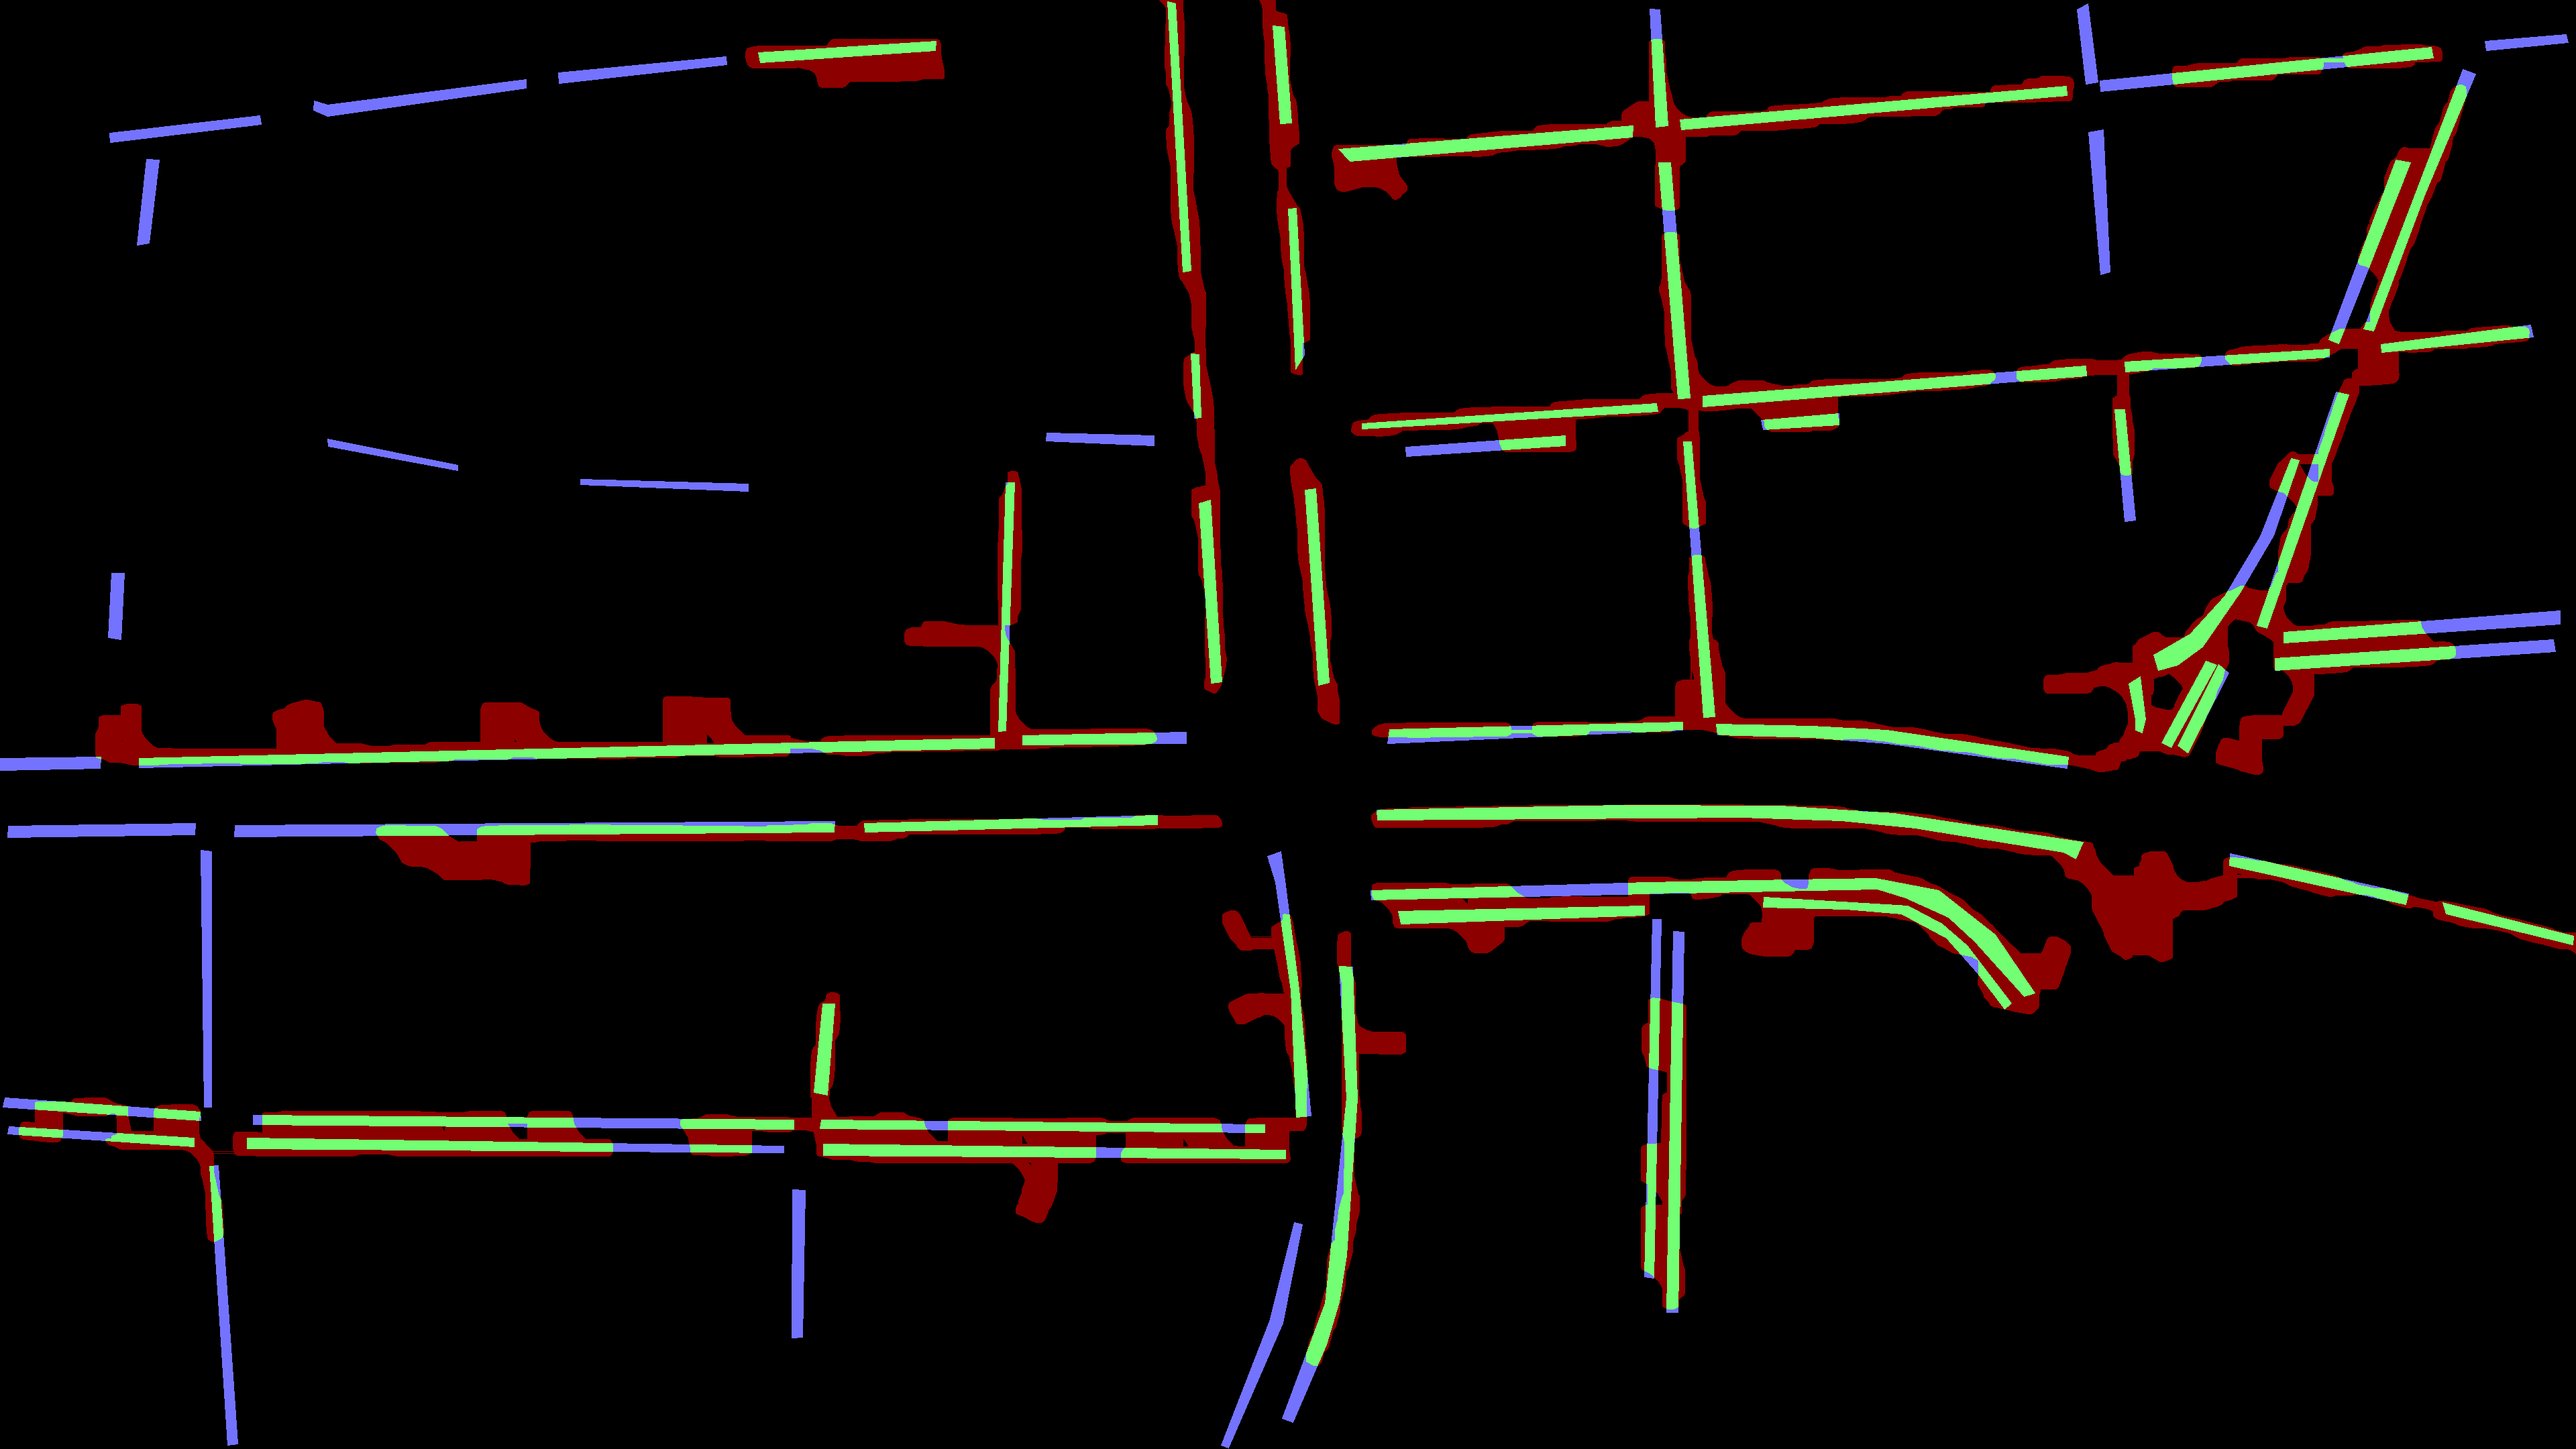
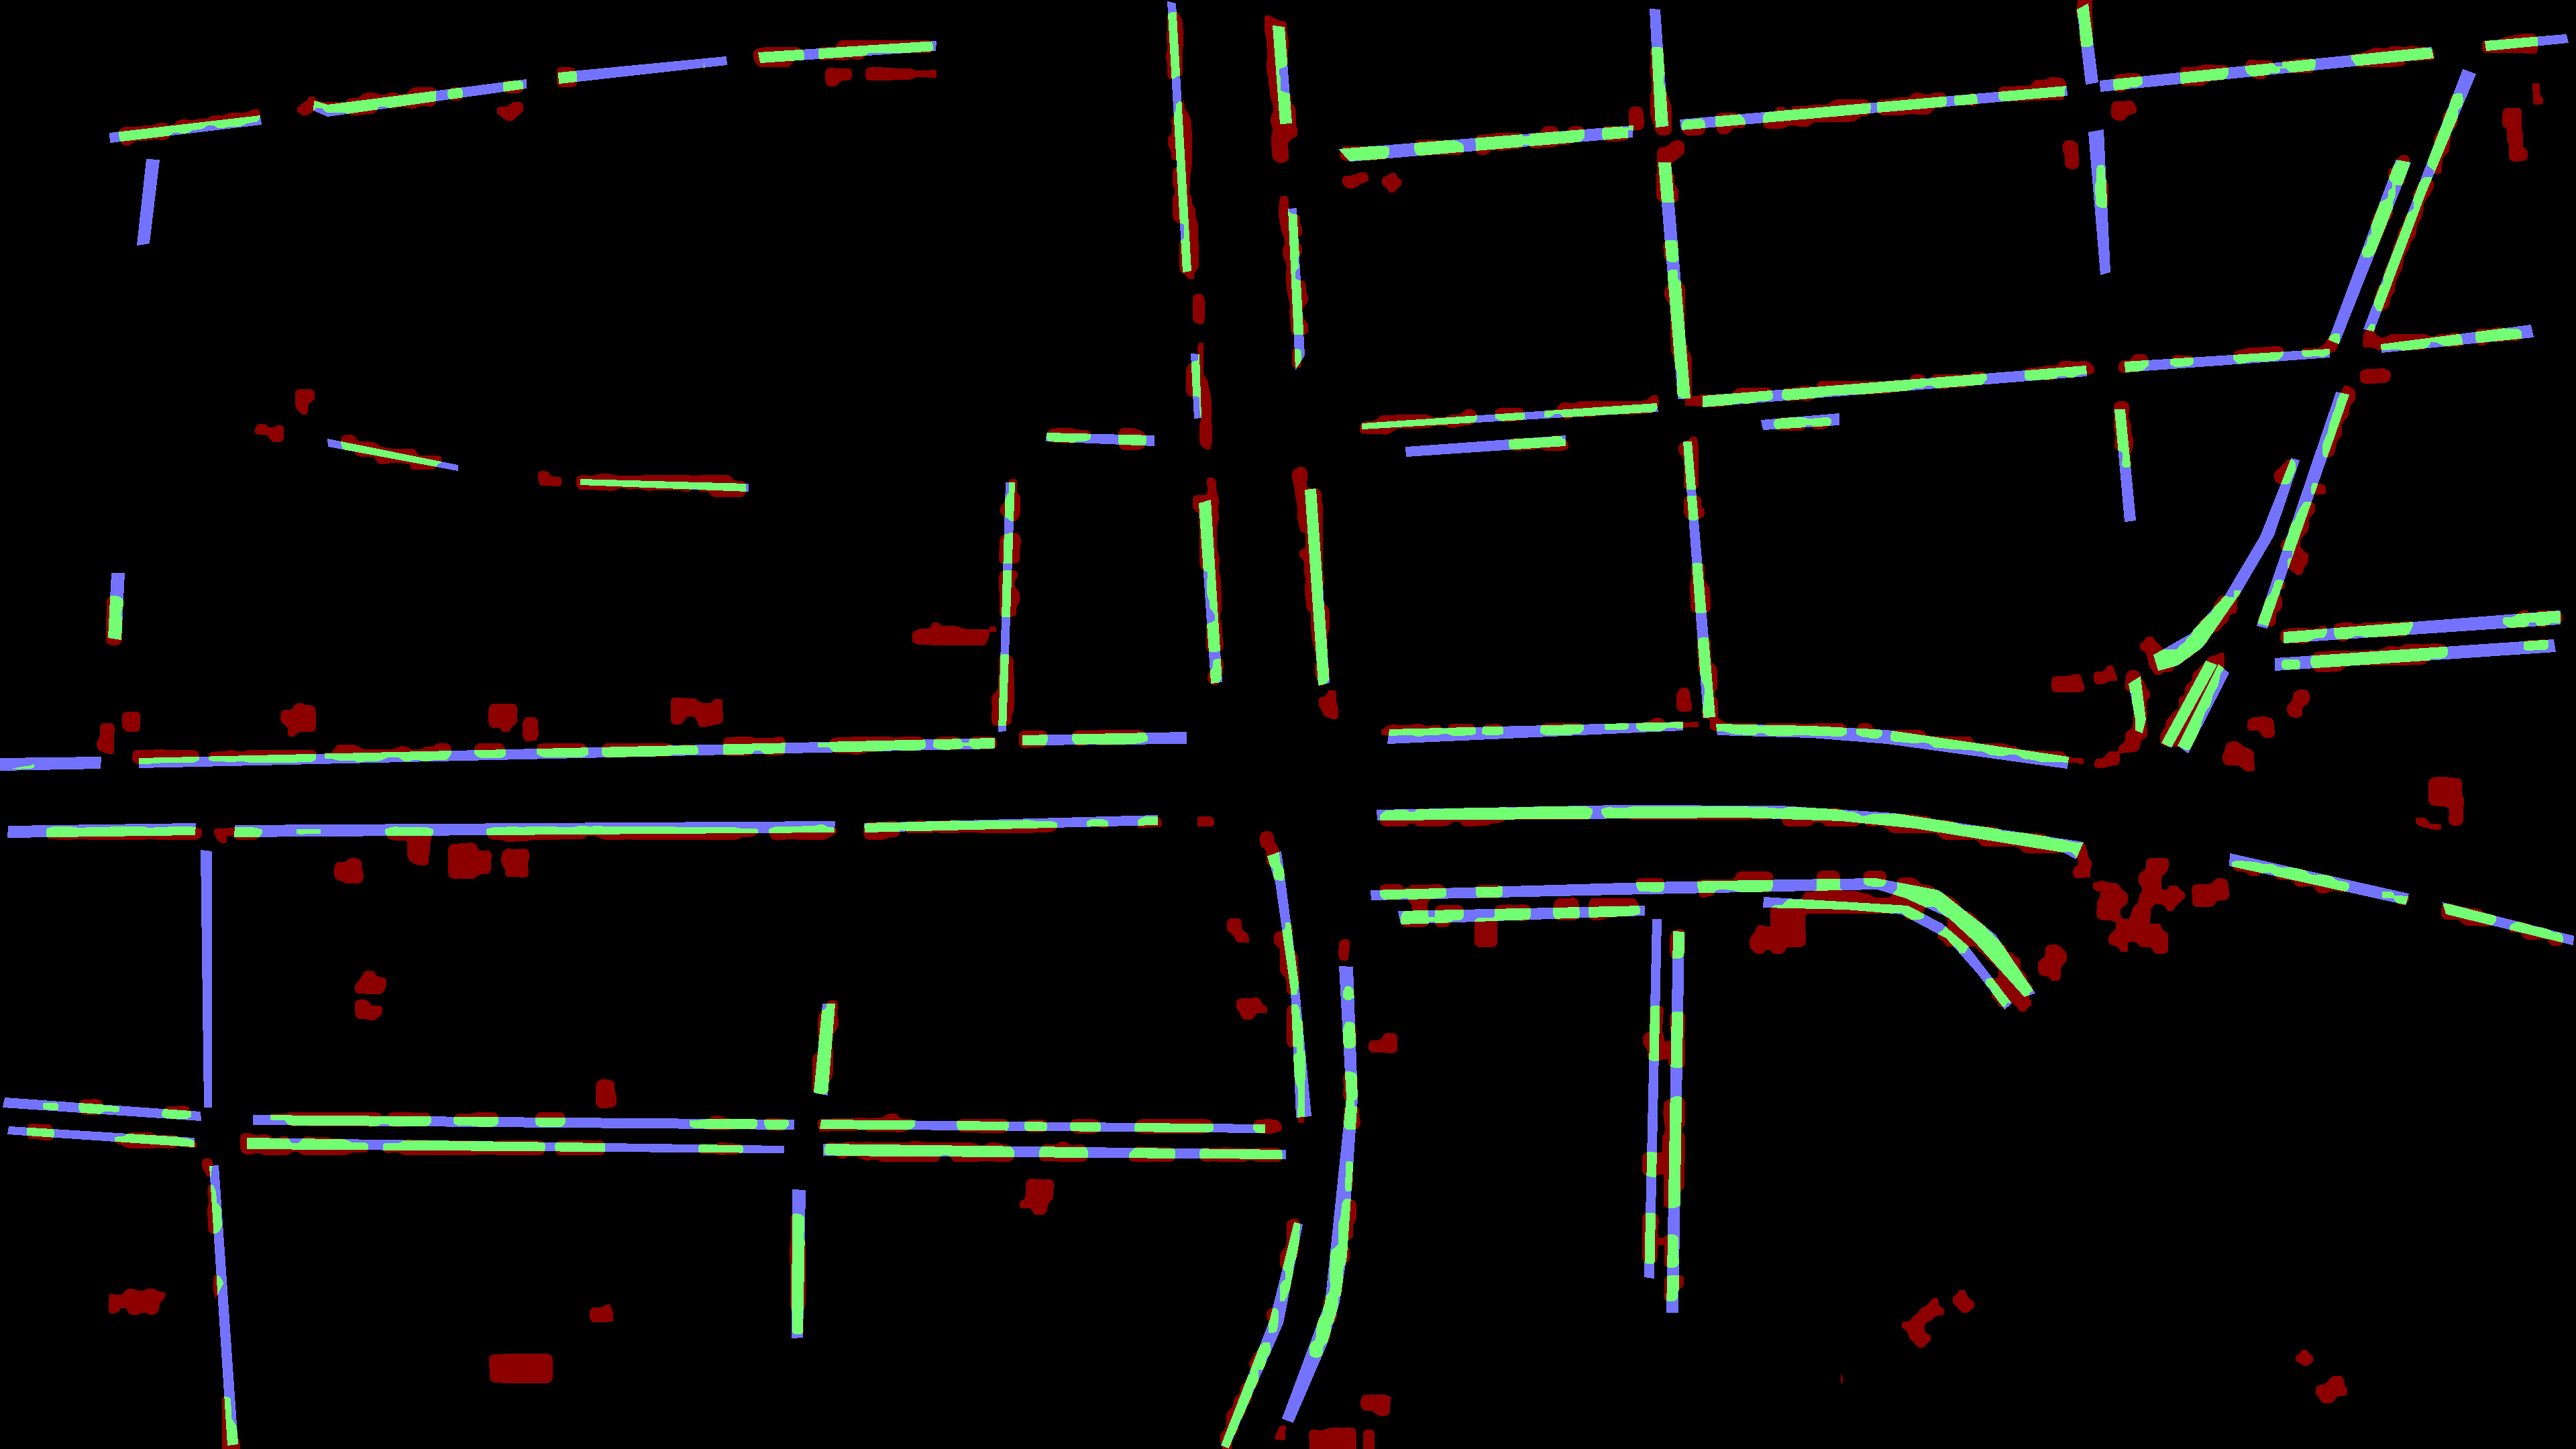
tested new script to clean

diff --git a/Code/new_test_clean_density.py b/Code/new_test_clean_density.py
@@ -1,0 +1,51 @@
+import cv2
+import numpy as np
+
+# -----------------------
+# CONFIG
+# -----------------------
+IN_PATH  = r"C:/Users/makss/Git/Galatsi-Semester-Project/Results/parking_detection/dwell_mult_4/test4_thr_0.85/parking_dwell_state_MULTI_REG_cleaned.png"
+OUT_PATH = r"C:/Users/makss/Git/Galatsi-Semester-Project/Results/occupancy_analysis/per_zones/cleaned_bw.png"
+
+RADIUS = 100              # voisinage = (2R+1)x(2R+1)
+MIN_WHITE_PIXELS = 1300   # nombre minimal de pixels blancs requis
+THRESH = 127
+
+# -----------------------
+# LOAD + BINARIZE
+# -----------------------
+img = cv2.imread(IN_PATH, cv2.IMREAD_GRAYSCALE)
+assert img is not None, f"Cannot read {IN_PATH}"
+
+_, bw = cv2.threshold(img, THRESH, 255, cv2.THRESH_BINARY)
+
+# blanc = 1, noir = 0
+white = (bw == 255).astype(np.uint8)
+
+# -----------------------
+# COUNT WHITE PIXELS (integral image)
+# -----------------------
+I = cv2.integral(white)
+H, W = white.shape
+
+y = np.arange(H)[:, None]
+x = np.arange(W)[None, :]
+
+y0 = np.clip(y - RADIUS, 0, H)
+y1 = np.clip(y + RADIUS + 1, 0, H)
+x0 = np.clip(x - RADIUS, 0, W)
+x1 = np.clip(x + RADIUS + 1, 0, W)
+
+# nombre de pixels blancs dans la fenêtre
+white_count = I[y1, x1] - I[y0, x1] - I[y1, x0] + I[y0, x0]
+
+# -----------------------
+# FILTER RULE
+# -----------------------
+keep_white = (white == 1) & (white_count >= MIN_WHITE_PIXELS)
+
+clean = np.zeros_like(bw)
+clean[keep_white] = 255
+
+cv2.imwrite(OUT_PATH, clean)
+print(f"Saved: {OUT_PATH}")

diff --git a/Code/mask_quality_analysis.py b/Code/mask_quality_analysis.py
@@ -5,7 +5,7 @@ import numpy as np
 # PATHS
 # -----------------
 GT_PATH   = r"C:/Users/makss/Git/Galatsi-Semester-Project/Results/occupancy_analysis/per_zones/mask_ids_color.png"
-MASK_PATH = r"C:/Users/makss/Git/Galatsi-Semester-Project/Results/occupancy_analysis/per_zones/mask_closed_cleaned.png"
+MASK_PATH = r"C:/Users/makss/Git/Galatsi-Semester-Project/Results/occupancy_analysis/per_zones/cleaned_bw.png"
 #MASK_PATH = r"C:/Users/makss/Git/Galatsi-Semester-Project/Results/parking_detection/dwell_mult_4/test4_thr_0.85/parking_dwell_state_MULTI_REG_zones_mask.png"
 
 # (optionnel) image de fond pour visualiser (satellite / frame)
